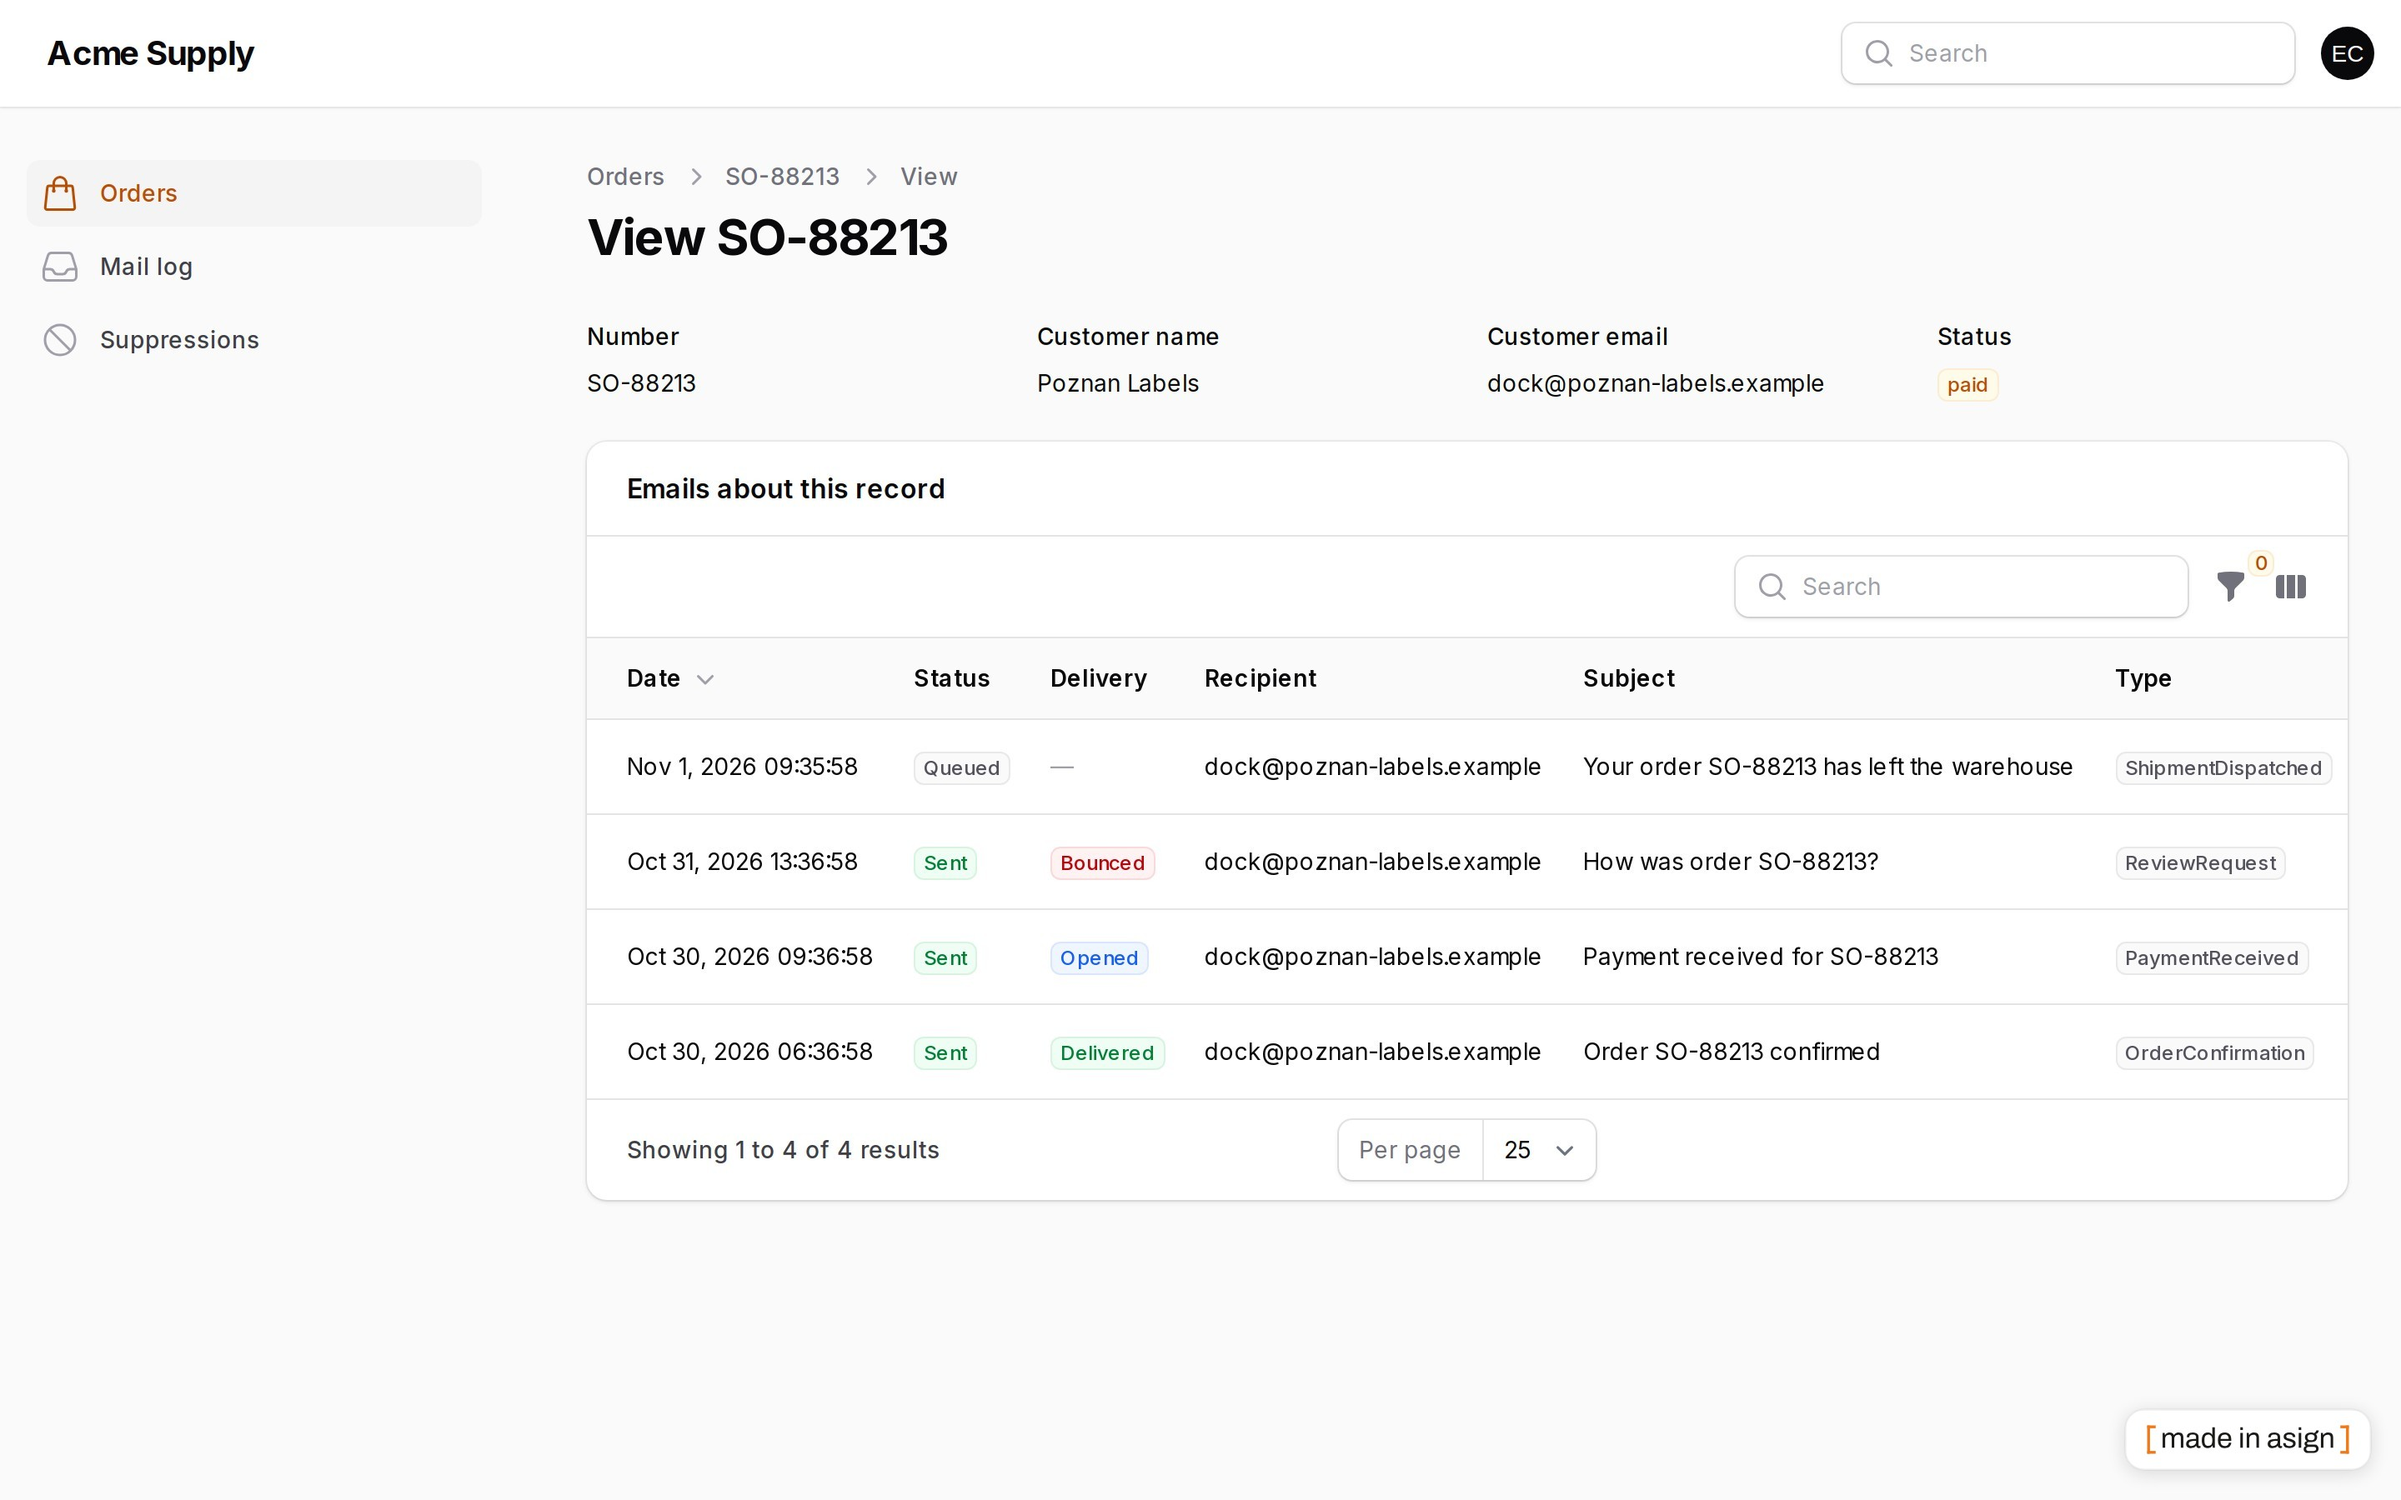
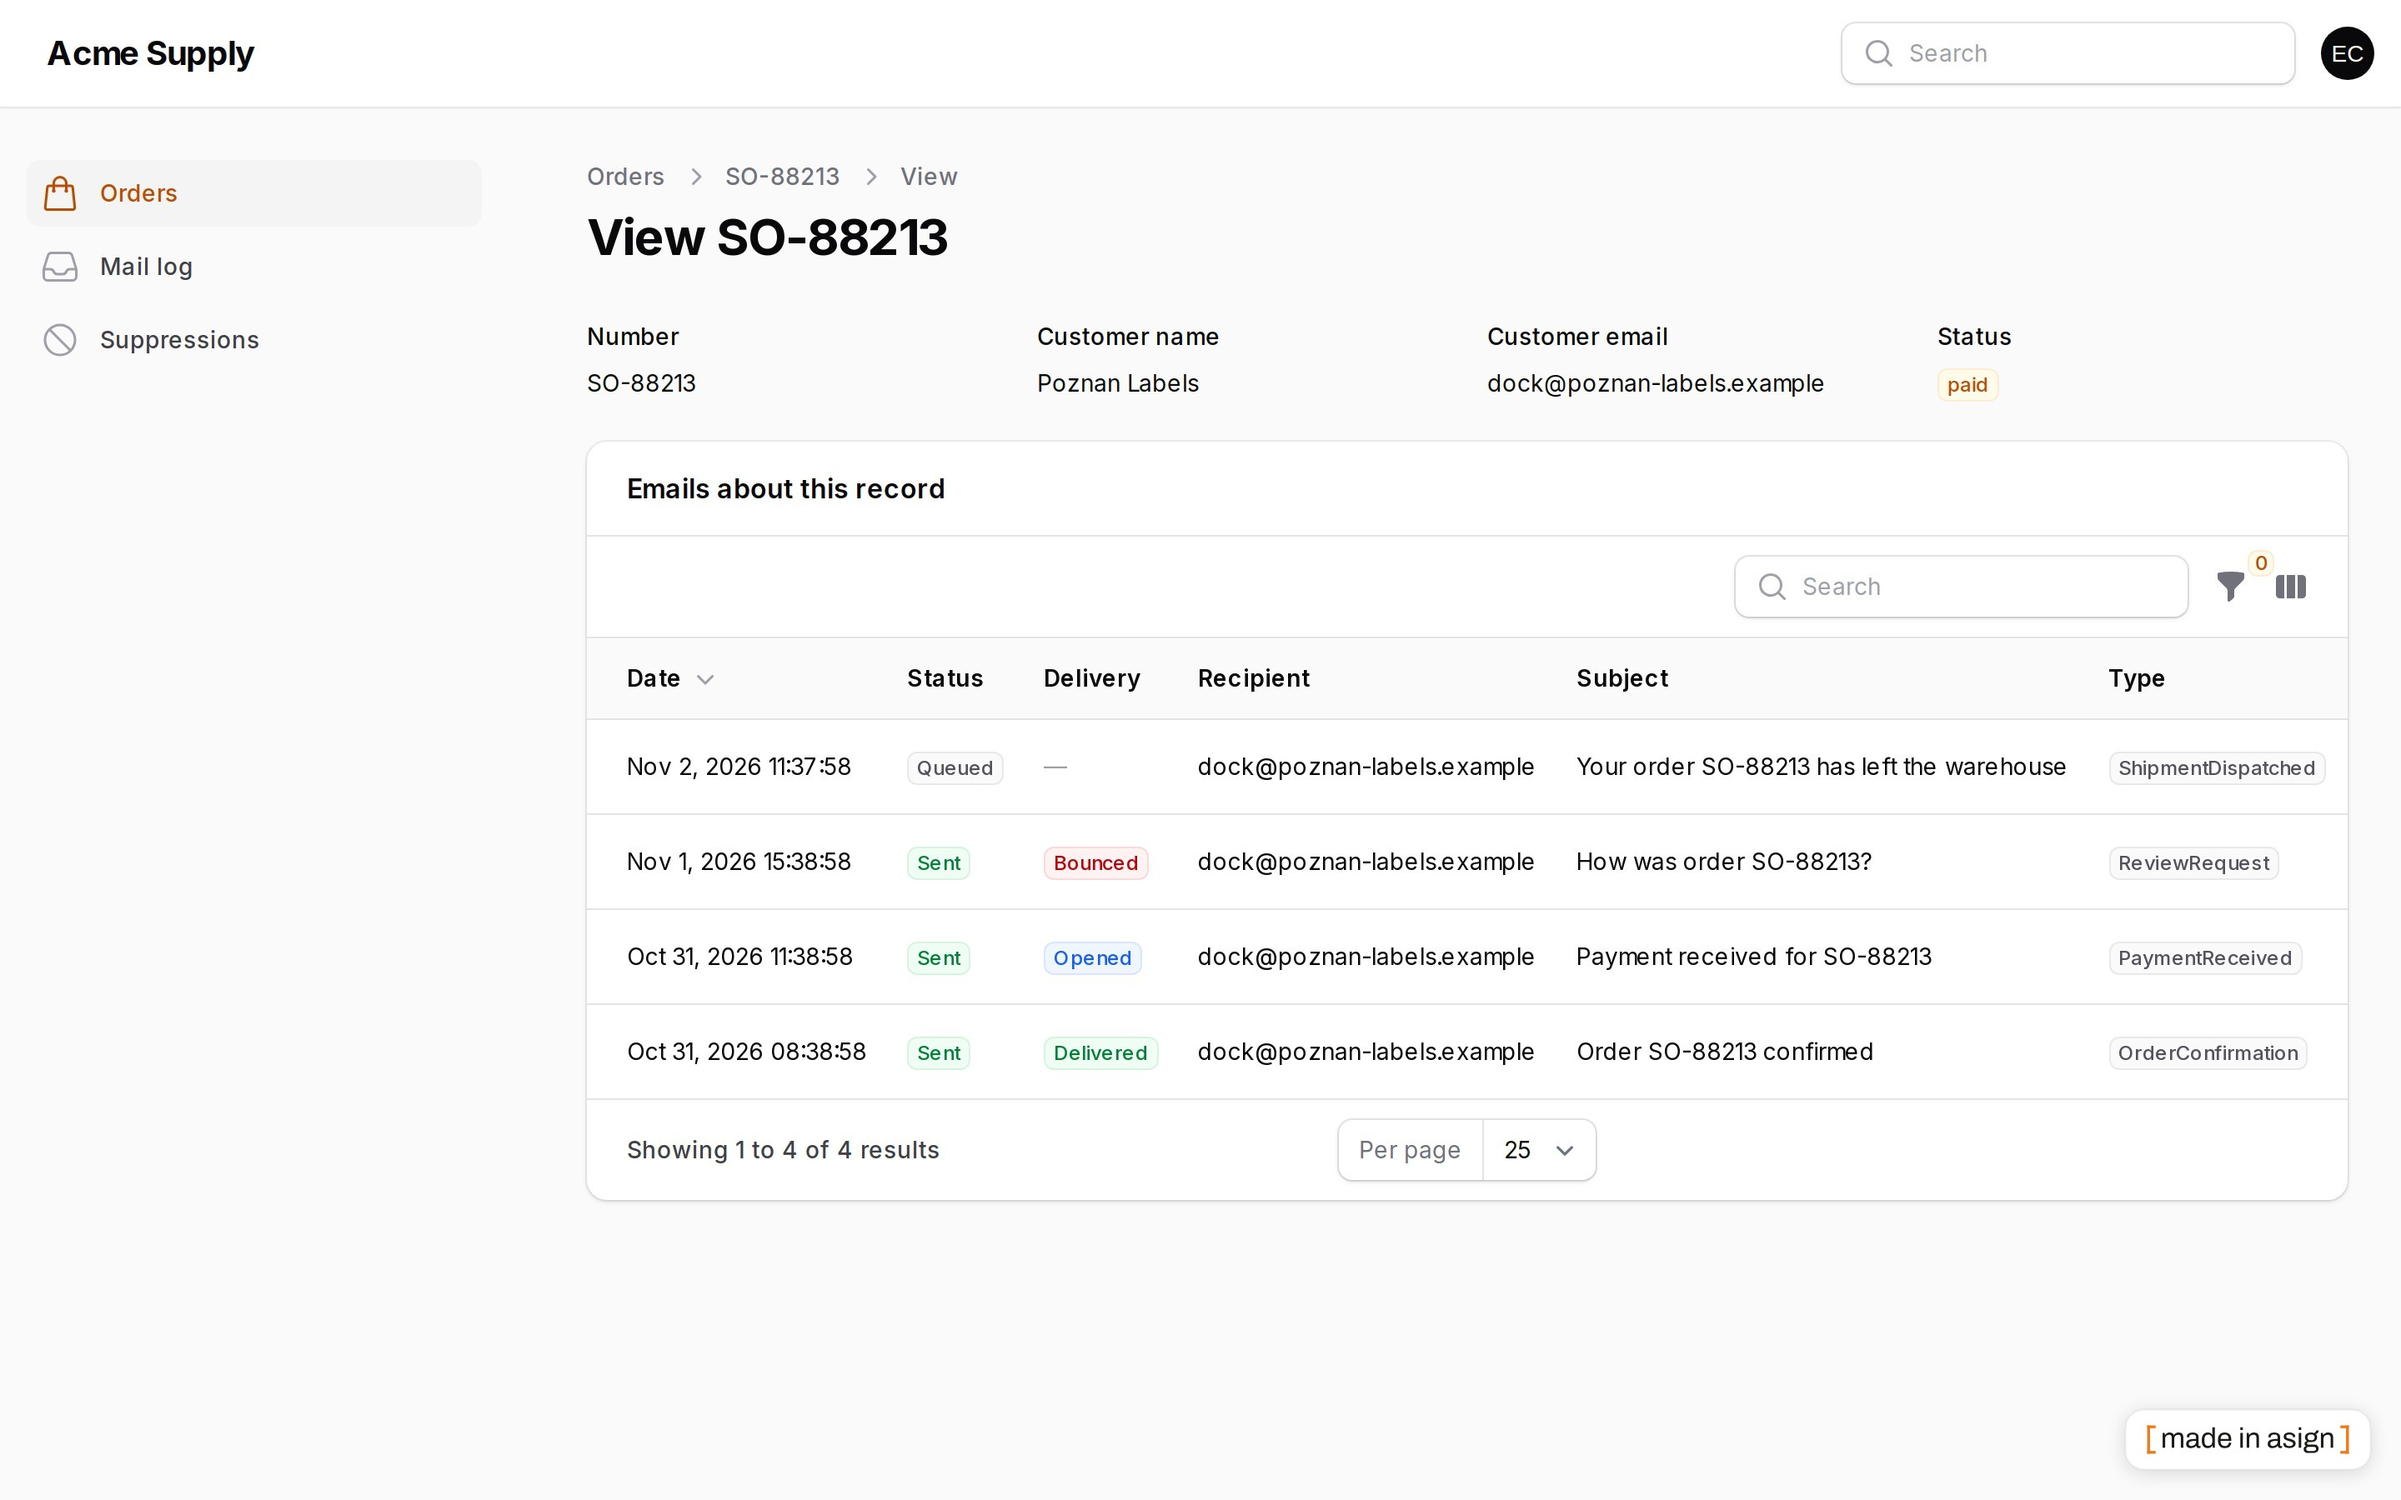
docs(art): cover for v1.3.0 (related records, Emails tab, delivery webhooks, bounce alerts); fix demo seeder for pair-based relations

diff --git a/workbench/database/seeders/DemoSeeder.php b/workbench/database/seeders/DemoSeeder.php
@@ -172,7 +172,7 @@ class DemoSeeder extends Seeder
             $logs = MailLog::query()->where('subject', 'like', '%'.$number.'%')->get();
 
             foreach ($logs as $log) {
-                app(MailLogRelationRepository::class)->attach($log, [$order]);
+                app(MailLogRelationRepository::class)->attach($log, [[$order->getMorphClass(), $order->getKey()]]);
             }
         }
 
@@ -180,7 +180,7 @@ class DemoSeeder extends Seeder
         $invoice = MailLog::query()->where('subject', 'like', '%INV-2026-0412%')->first();
 
         if ($emma !== null && $invoice !== null) {
-            app(MailLogRelationRepository::class)->attach($invoice, [$emma]);
+            app(MailLogRelationRepository::class)->attach($invoice, [[$emma->getMorphClass(), $emma->getKey()]]);
         }
     }
 
